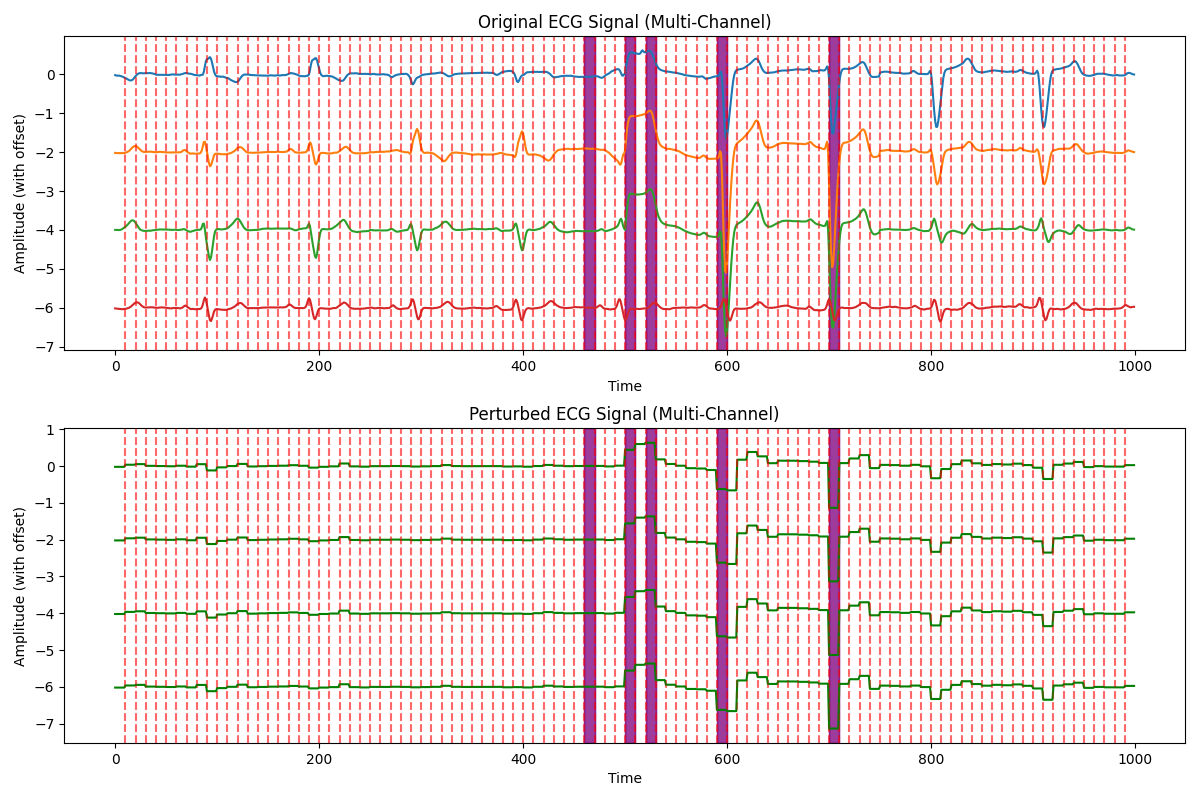
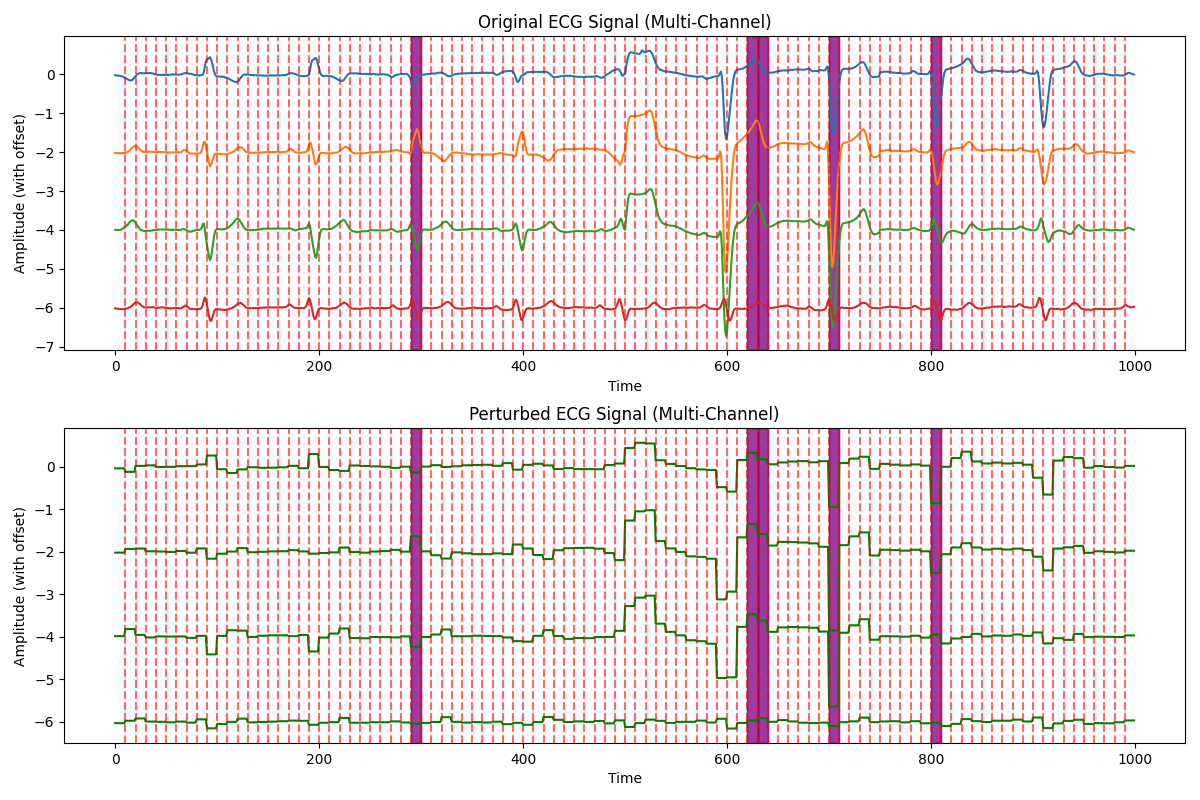
privacy

diff --git a/main/lime_explanation.py b/main/lime_explanation.py
@@ -127,32 +127,38 @@ def generate_random_perturbations(num_perturbations, num_slices):
     random_perturbations = np.random.binomial(1, 0.5, size=(num_perturbations, num_slices))
     return random_perturbations
 
-def apply_perturbation_to_ecg(signal, perturbation, num_segments, perturb_function=perturb_mean):
+import numpy as np
+import copy
+
+def apply_perturbation_to_ecg(signal, perturbation, num_segments, perturb_function):
     """
-    Apply a perturbation to an ECG signal.
+    Apply a perturbation to a multi-channel ECG signal.
 
     Parameters:
-    - signal (np.ndarray): The original ECG signal.
+    - signal (np.ndarray): The original ECG signal (shape: [timesteps, channels]).
     - perturbation (np.ndarray): A vector indicating which segments to turn on (1) or off (0).
-    - num_segments (int): The total number of segments the ECG signal is divided into.
+    - num_segments (int): The total number of segments each channel of the ECG signal is divided into.
     - perturb_function (function): The function to use for perturbing the signal (default is perturb_mean).
 
     Returns:
-    - np.ndarray: A perturbed version of the ECG signal.
+    - np.ndarray: A perturbed version of the multi-channel ECG signal.
     """
     # Copy the signal to avoid modifying the original
     perturbed_signal = copy.deepcopy(signal)
-    segment_length = len(signal) // num_segments
+    timesteps, num_channels = signal.shape
+    segment_length = timesteps // num_segments
 
-    # Apply the perturbation based on the provided vector
-    for i, active in enumerate(perturbation):
-        start_idx = i * segment_length
-        end_idx = start_idx + segment_length
-        # Apply perturbation function only to "off" segments
-        if not active:
-            perturb_function(perturbed_signal, start_idx, end_idx)
+    # Apply the perturbation for each channel independently
+    for channel in range(num_channels):
+        for i, active in enumerate(perturbation):
+            start_idx = i * segment_length
+            end_idx = start_idx + segment_length
+            # Apply perturbation function only to "off" segments for this channel
+            if not active:
+                perturb_function(perturbed_signal[:, channel], start_idx, end_idx)
 
     return perturbed_signal
+
 
 def predict_perturbations(model, instance_ecg, random_perturbations, num_slices, perturb_function):
     """

diff --git a/main/LIME.py b/main/LIME.py
@@ -52,7 +52,6 @@ class1_indices = np.where(y_train >= 0.4)[0][:5]
 
 # 클래스 0에 대한 LIME 시각화
 for i, id_ecg in enumerate(class0_indices):
-    print("hello2")
     instance_ecg = X_train[id_ecg, :]
     print(f"Class 0 - Example {i+1}: Shape of instance_ecg:", instance_ecg.shape)
 
@@ -64,10 +63,16 @@ for i, id_ecg in enumerate(class0_indices):
     num_slices = 100
     slice_width = segment_ecg_signal(instance_ecg, num_slices)
 
+    plot_segmented_ecg(instance_ecg, slice_width, f"/home/work/.LVEF/ecg-lvef-prediction/ecg_visualizations_real/class0_example{i+1}_plot_segment.png")
+
     # Perturbation
     num_perturbations = 350
     random_perturbations = generate_random_perturbations(num_perturbations, num_slices)
     perturbed_ecg_example = apply_perturbation_to_ecg(instance_ecg, random_perturbations[-1], num_slices, perturb_mean)
+
+    # plot the original and perturbed ECG signals with highlighted slices and deactivated segments
+    plot_perturbed_ecg(instance_ecg, perturbed_ecg_example, random_perturbations[-1], num_slices, f"/home/work/.LVEF/ecg-lvef-prediction/ecg_visualizations_real/class0_example{i+1}_plot_perturbed.png", title='ECG Signal with Perturbation')
+
 
     # Perturbation Predictions
     perturbation_predictions = predict_perturbations(clf, instance_ecg, random_perturbations, num_slices, perturb_mean)
@@ -81,6 +86,7 @@ for i, id_ecg in enumerate(class0_indices):
 
     # Top influential segments
     top_influential_segments = identify_top_influential_segments(segment_importance_coefficients, number_of_top_features=5)
+
 
     # 시각화
     visualize_lime_explanation(instance_ecg, top_influential_segments, num_slices, f"/home/work/.LVEF/ecg-lvef-prediction/ecg_visualizations_real/class0_example{i+1}.png", perturb_function=perturb_mean)
